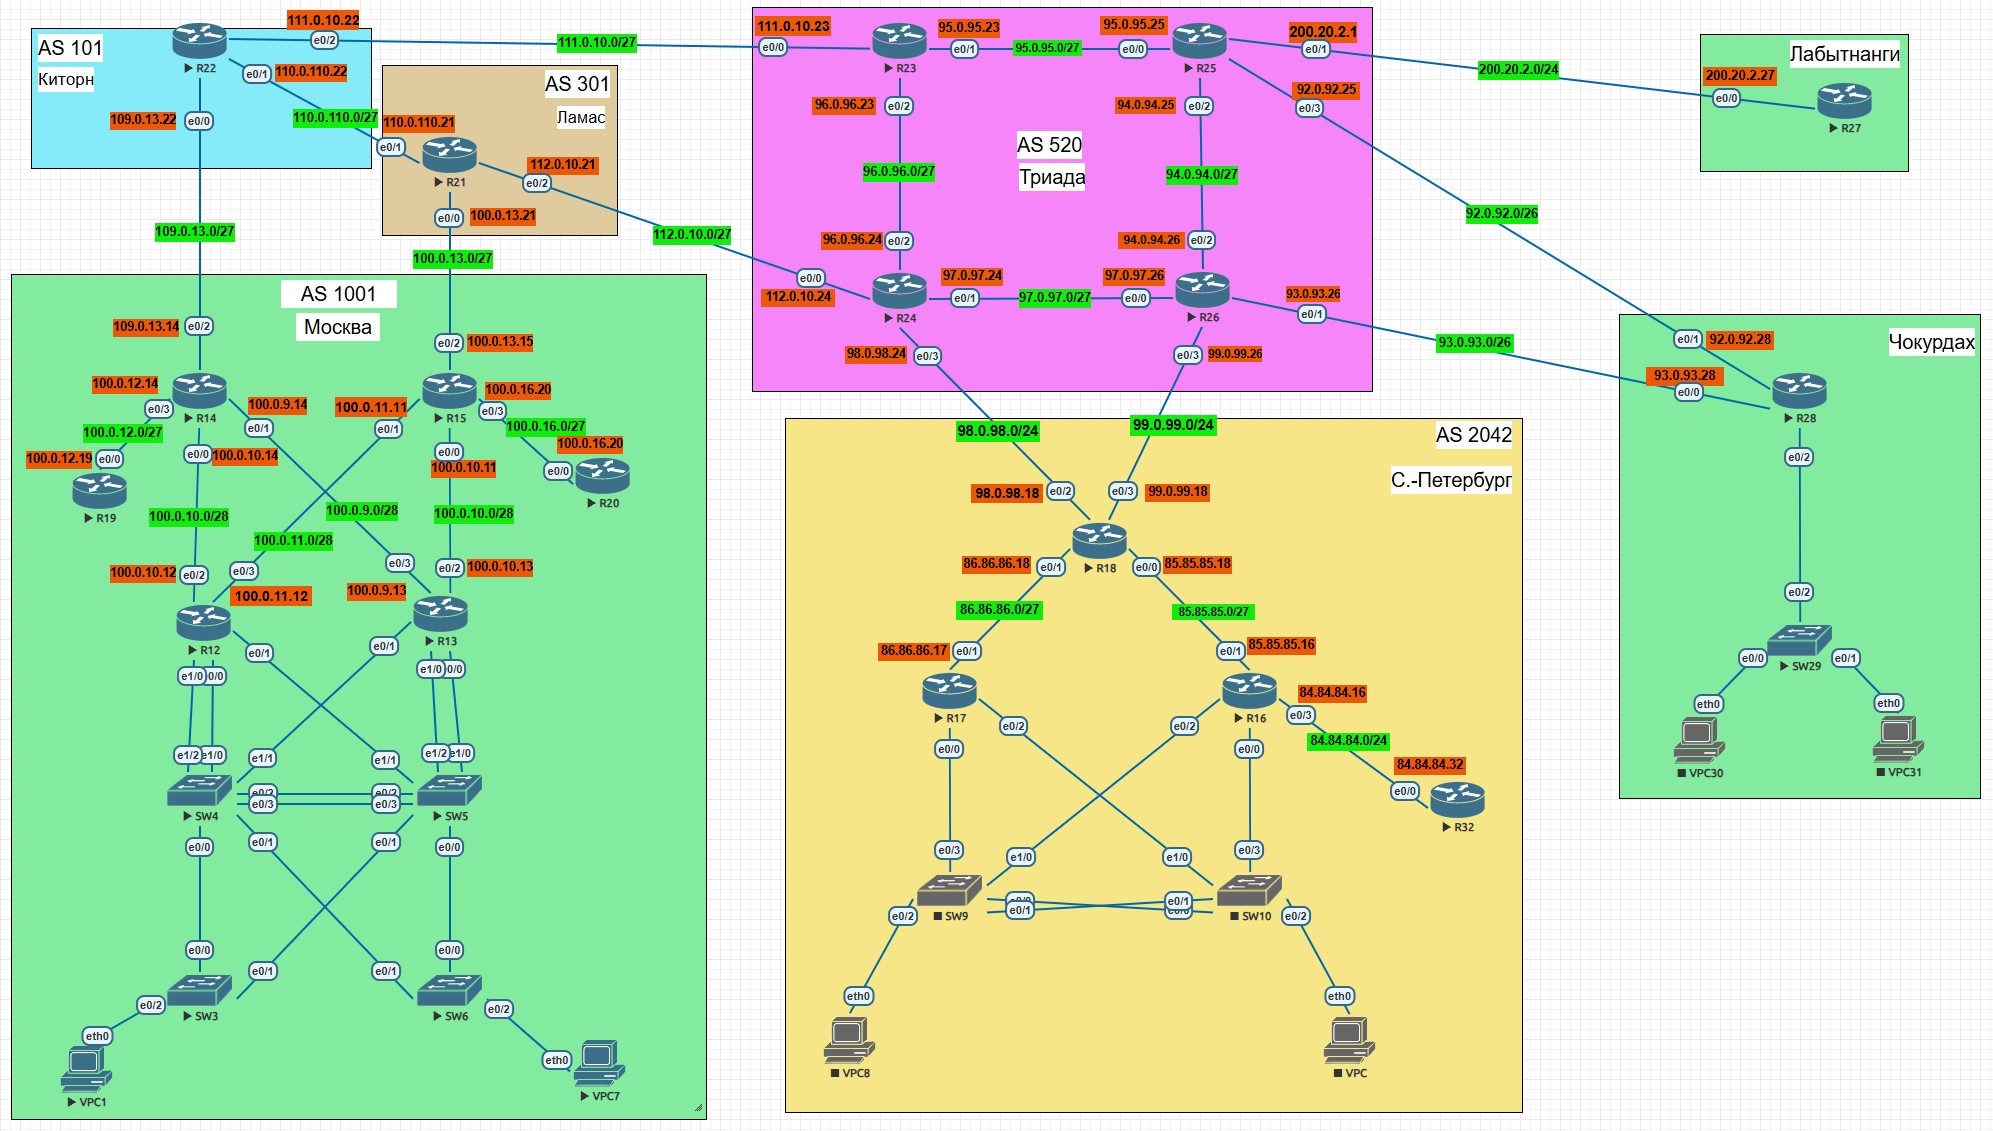
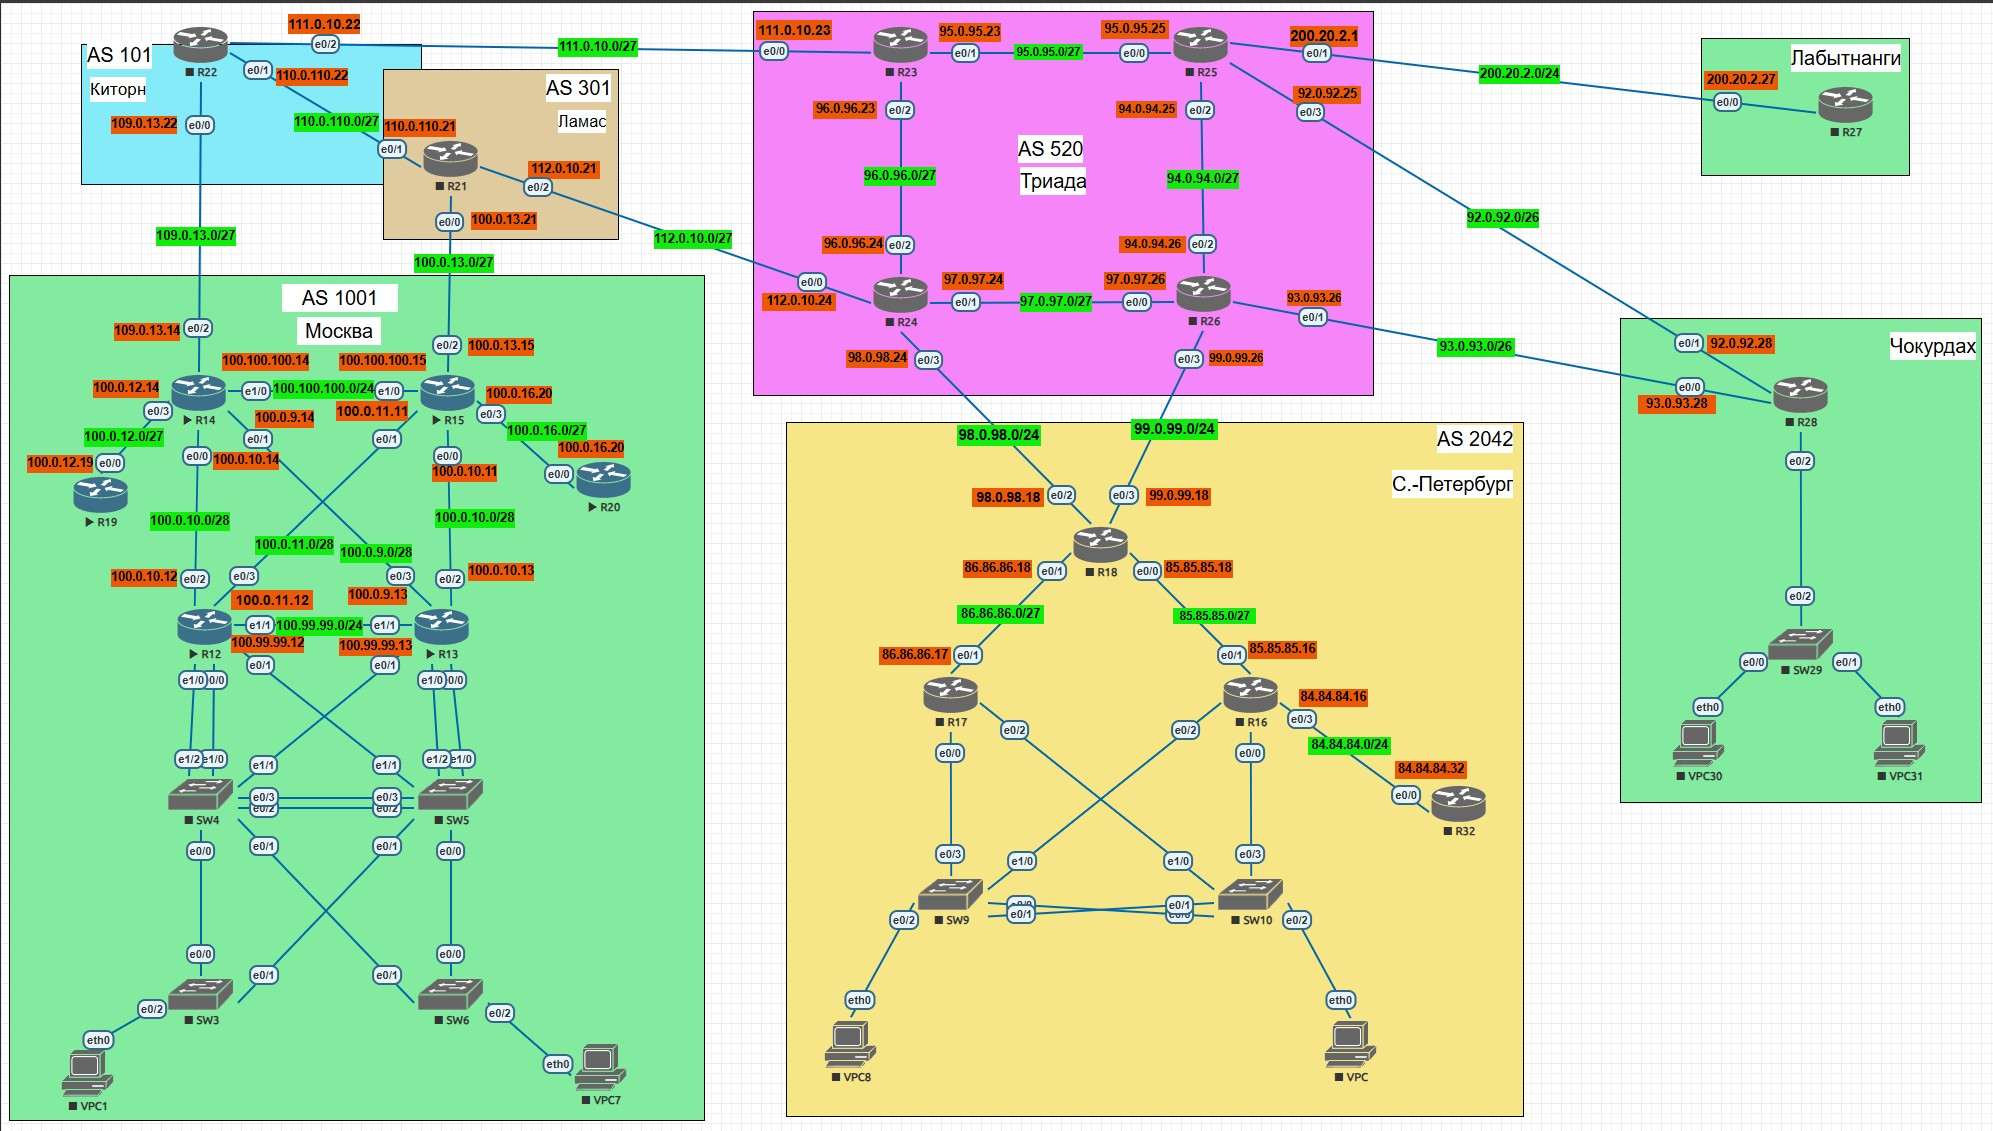
step3 hmw004

diff --git a/hmw004/README.md b/hmw004/README.md
@@ -415,12 +415,14 @@ interface Ethernet0/3
  ip address 100.0.12.14 255.255.255.224
  ip ospf 1 area 101
 !
+interface Ethernet1/0
+ ip address 100.100.100.14 255.255.255.0
+ ip ospf 1 area 0
+!
 router ospf 1
  router-id 1.1.1.1
+ area 10 stub
  area 101 stub no-summary
- network 100.0.9.14 0.0.0.0 area 0
- network 100.0.10.14 0.0.0.0 area 0
- network 100.0.12.14 0.0.0.0 area 0
 !
 ```  
 
@@ -443,12 +445,13 @@ interface Ethernet0/3
  ip address 100.0.16.15 255.255.255.224
  ip ospf 1 area 102
 !
+interface Ethernet1/0
+ ip address 100.100.100.15 255.255.255.0
+ ip ospf 1 area 0
+!
 router ospf 1
  router-id 1.1.1.2
- area 0 filter-list prefix DENY_101_ZONE out
- network 100.0.10.11 0.0.0.0 area 0
- network 100.0.11.11 0.0.0.0 area 0
- network 100.0.16.13 0.0.0.0 area 0
+ area 102 filter-list prefix DENY_101_ZONE in
  !
 ip prefix-list DENY_101_ZONE seq 5 deny 100.0.12.0/27
 ip prefix-list DENY_101_ZONE seq 10 permit 0.0.0.0/0 le 32
@@ -467,11 +470,16 @@ interface Ethernet0/3
  ip address 100.0.11.12 255.255.255.240
  ip ospf 1 area 10
 !
+interface Ethernet1/1
+ description -=To R13=-
+ ip address 100.99.99.13 255.255.255.0
+ ip ospf 1 area 10
+!
 router ospf 1
  router-id 2.2.2.1
+ area 10 stub
  network 100.0.10.12 0.0.0.0 area 10
  network 100.0.11.12 0.0.0.0 area 10
- default-information originate
  ! 
 ```  
 
@@ -488,12 +496,17 @@ interface Ethernet0/3
  ip address 100.0.9.13 255.255.255.240
  ip ospf 1 area 10
 !
+interface Ethernet1/1
+ description -=To R12=-
+ ip address 100.99.99.12 255.255.255.0
+ ip ospf 1 area 10
+ !
 router ospf 1
  router-id 2.2.2.2
+ area 10 stub
  network 100.0.10.13 0.0.0.0 area 10
  network 100.0.11.13 0.0.0.0 area 10
- default-information originate
-!
+ !
 ```  
 
 Настройка OSPF на R19:  
@@ -505,7 +518,9 @@ interface Ethernet0/0
  ip ospf 1 area 101
 router ospf 1
  router-id 3.3.3.1
+ area 101 stub
  passive-interface default
+ no passive-interface Ethernet0/0
  network 100.0.12.19 0.0.0.0 area 101
 !
 ```  
